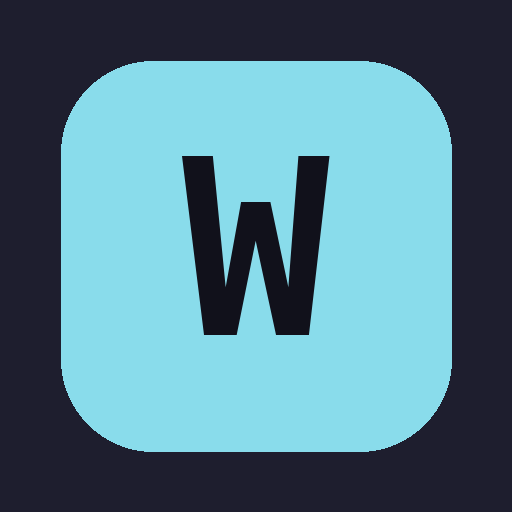
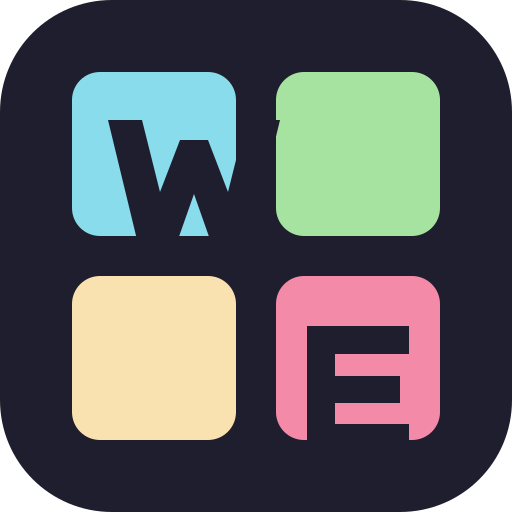
fix: isolate Wordle Assistant PWA identity
Remove the in-app install control, give the manifest a unique path identity, and refresh the app icons and offline cache.

diff --git a/app.js b/app.js
@@ -33,11 +33,7 @@ const THEME_COLORS={latte:'#eff1f5',mocha:'#1e1e2e'};
 function syncThemeColor(){const meta=document.querySelector('meta[name="theme-color"]');if(meta)meta.content=THEME_COLORS[document.documentElement.dataset.theme]||THEME_COLORS.mocha}
 function initTheme(){const root=document.documentElement;let saved=null;try{saved=localStorage.getItem('wordle-assistant-theme')||localStorage.getItem('scout-theme')}catch{}const prefersLight=window.matchMedia&&matchMedia('(prefers-color-scheme: light)').matches;root.dataset.theme=saved==='latte'||saved==='mocha'?saved:(prefersLight?'latte':'mocha');const btn=$('#themeBtn');const paint=()=>{const light=root.dataset.theme==='latte';btn.innerHTML=THEME_ICONS[light?'latte':'mocha'];btn.setAttribute('aria-label',`Appearance: ${light?'light':'dark'}. Activate to switch to ${light?'dark':'light'} mode.`);btn.title=`Switch to ${light?'dark':'light'} mode`;syncThemeColor()};paint();btn.onclick=()=>{root.dataset.theme=root.dataset.theme==='latte'?'mocha':'latte';try{localStorage.setItem('wordle-assistant-theme',root.dataset.theme)}catch{}paint()}}
 function registerServiceWorker(){if(!('serviceWorker' in navigator))return;const {protocol}=location;if(protocol!=='http:'&&protocol!=='https:')return;navigator.serviceWorker.register('./sw.js',{scope:'./'}).catch(()=>{})}
-function isStandaloneApp(){return window.matchMedia('(display-mode: standalone)').matches||window.matchMedia('(display-mode: fullscreen)').matches||!!navigator.standalone}
-function isIosDevice(){return /iphone|ipad|ipod/i.test(navigator.userAgent)||(navigator.platform==='MacIntel'&&navigator.maxTouchPoints>1)}
-function initInstallPrompt(){const btn=$('#installBtn'),tip=$('#installTip'),tipText=$('#installTipText'),dismiss=$('#installTipDismiss');if(!btn)return;let deferred=null;const hideTip=()=>{if(tip)tip.hidden=true;btn.setAttribute('aria-expanded','false')};const showTip=msg=>{if(!tip||!tipText)return;tipText.textContent=msg;tip.hidden=false;btn.setAttribute('aria-expanded','true')};const hideInstall=()=>{btn.hidden=true;hideTip();deferred=null};if(isStandaloneApp()){hideInstall();return}btn.hidden=false;window.addEventListener('beforeinstallprompt',e=>{e.preventDefault();deferred=e});window.addEventListener('appinstalled',()=>{hideInstall();showTip('Installed — open it from your home screen anytime.')});if(dismiss)dismiss.onclick=hideTip;btn.onclick=async()=>{if(deferred){hideTip();deferred.prompt();try{const choice=await deferred.userChoice;if(choice?.outcome==='accepted')hideInstall()}catch{}deferred=null;return}if(isIosDevice()){showTip('On iPhone/iPad: tap Share, then Add to Home Screen.');return}if(!window.isSecureContext){showTip('Open this page over HTTPS to install it as an app.');return}if(!('serviceWorker' in navigator)){showTip('This browser can’t install web apps. Try Chrome or Edge.');return}showTip('Use your browser menu → Install app / Add to Home screen. If it’s missing, wait a moment and try again.')}}
 initTheme();
 registerServiceWorker();
-initInstallPrompt();
 $('#solveBtn').onclick=requestAnalysis;$('#undoWordBtn').onclick=undoWord;$('#newGameBtn').onclick=()=>{guesses=[];candidates=[...words];recommendations=[];activeRow=0;activeCol=0;gameOver=false;recorded=false;lastDraftRow=-1;lastAnalysisSig='[]';render();requestAnalysis()};
 document.addEventListener('keydown',e=>{if(e.key==='Backspace'){e.preventDefault();keyPress('back')}else if(e.key==='Enter'){e.preventDefault();requestAnalysis()}else keyPress(e.key.toLowerCase())});loadWords();

diff --git a/index.html b/index.html
@@ -9,7 +9,7 @@
     <meta name="mobile-web-app-capable" content="yes" />
     <meta name="apple-mobile-web-app-capable" content="yes" />
     <meta name="apple-mobile-web-app-status-bar-style" content="black-translucent" />
-    <meta name="apple-mobile-web-app-title" content="Wordle" />
+    <meta name="apple-mobile-web-app-title" content="Wordle Assistant" />
     <title>Wordle Assistant — Offline Wordle Solver</title>
     <link rel="manifest" href="manifest.webmanifest" />
     <link rel="icon" href="icons/icon-192.png" type="image/png" sizes="192x192" />
@@ -26,16 +26,10 @@
         </span>
         <div class="top-actions">
           <span id="dictionaryStatus" class="dict-status" role="status" aria-live="polite">Loading…</span>
-          <button id="installBtn" class="button ghost" type="button" aria-expanded="false" aria-controls="installTip">Install</button>
           <button id="themeBtn" class="button ghost icon-button" type="button" aria-label="Appearance: dark. Activate to switch to light mode."></button>
           <button id="newGameBtn" class="button ghost" type="button">New game</button>
         </div>
       </header>
-      <div id="installTip" class="install-tip" role="status" hidden>
-        <p id="installTipText"></p>
-        <button id="installTipDismiss" class="button ghost" type="button">Got it</button>
-      </div>
-
       <div class="workspace">
         <section class="panel board-panel" aria-labelledby="board-heading">
           <div class="section-head">

diff --git a/styles.css b/styles.css
@@ -132,17 +132,6 @@ body {
 .top-actions { display: flex; align-items: center; gap: var(--space-1); flex-wrap: wrap; }
 .dict-status { font-family: var(--font-mono); font-size: 0.6875rem; color: var(--subtext); }
 
-.install-tip {
-  display: flex; align-items: center; justify-content: space-between; gap: var(--space-2);
-  padding: 10px 12px;
-  background: var(--mantle);
-  border: 1px solid var(--line);
-  border-radius: var(--radius-sm);
-}
-.install-tip[hidden] { display: none !important; }
-.install-tip p { margin: 0; font-size: 0.875rem; color: var(--text); line-height: 1.35; }
-.install-tip .button { flex: 0 0 auto; min-height: 40px; padding: 8px 12px; }
-
 /* ---------- Buttons (one prominent action per view) ---------- */
 
 .button {

diff --git a/sw.js b/sw.js
@@ -1,6 +1,6 @@
 /* Wordle Assistant service worker — cache-first offline shell for HTTP(S) installs.
    Not used under file:// (registration is skipped in app.js). */
-const CACHE = 'wordle-assistant-v2';
+const CACHE = 'wordle-assistant-v3';
 const PRECACHE = [
   './',
   './index.html',

diff --git a/README.md b/README.md
@@ -22,17 +22,15 @@ docker run --rm -p 8080:80 wordle-assistant
 docker compose up --build
 ```
 
-Then open `http://localhost:8080`. Same static files as `file://`, just served over HTTP (required for PWA install).
+Then open `http://localhost:8080`. Same static files as `file://`, just served over HTTP.
 
 ## Install on phone (PWA)
 
 Serve the site over HTTP(S) first (Docker above, or any static file server). `file://` still works offline, but browsers only install PWAs from a secure context (`https://` or `http://localhost`).
 
-1. Open the app on your phone’s browser (HTTPS required for install).
-2. Tap **Install** in the top bar.
-3. **Android (Chrome/Edge):** the system install prompt appears when the app is installable; otherwise the tip points you to the browser menu → **Install app**.
-4. **iPhone (Safari):** the tip walks you through Share → **Add to Home Screen**.
-5. Launch from the home-screen icon — it opens full-screen and keeps working offline after the first visit (service worker caches the shell + dictionary).
+1. Open the app on your phone’s browser (HTTPS required for Android installation).
+2. Use the browser menu → **Install app** / **Add to Home Screen**.
+3. Launch **Wordle Assistant** from the home-screen icon — it opens full-screen and keeps working offline after the first visit (service worker caches the shell + dictionary).
 
 **Same Wi‑Fi as your PC:** run Docker, then open `http://<your-pc-lan-ip>:8080` on the phone. iOS Add to Home Screen works over plain HTTP; Android’s full install prompt needs HTTPS or `localhost` (e.g. `adb reverse tcp:8080 tcp:8080`, then open `http://localhost:8080` on the phone).
 

diff --git a/AGENTS.md b/AGENTS.md
@@ -11,7 +11,7 @@ This is an offline-first Wordle solver static site. Prioritize polishing the sol
 
 ## Repo Map
 - `index.html`: app shell, board / keyboard / insights panels.
-- `app.js`: game state, rendering, `requestAnalysis()` via Worker; registers SW + install prompt on HTTP(S) only.
+- `app.js`: game state, rendering, and `requestAnalysis()` via Worker; registers the service worker on HTTP(S) only.
 - `worker.js`: `feedback(guess, answer)`, `analyze({words, solutions, guesses})`, candidate filtering + recommendations.
 - `sw.js`, `manifest.webmanifest`, `icons/`: PWA install + offline cache (skipped under `file://`).
 - `dictionary.js`: generates solutions list (`generateSolutions`).
